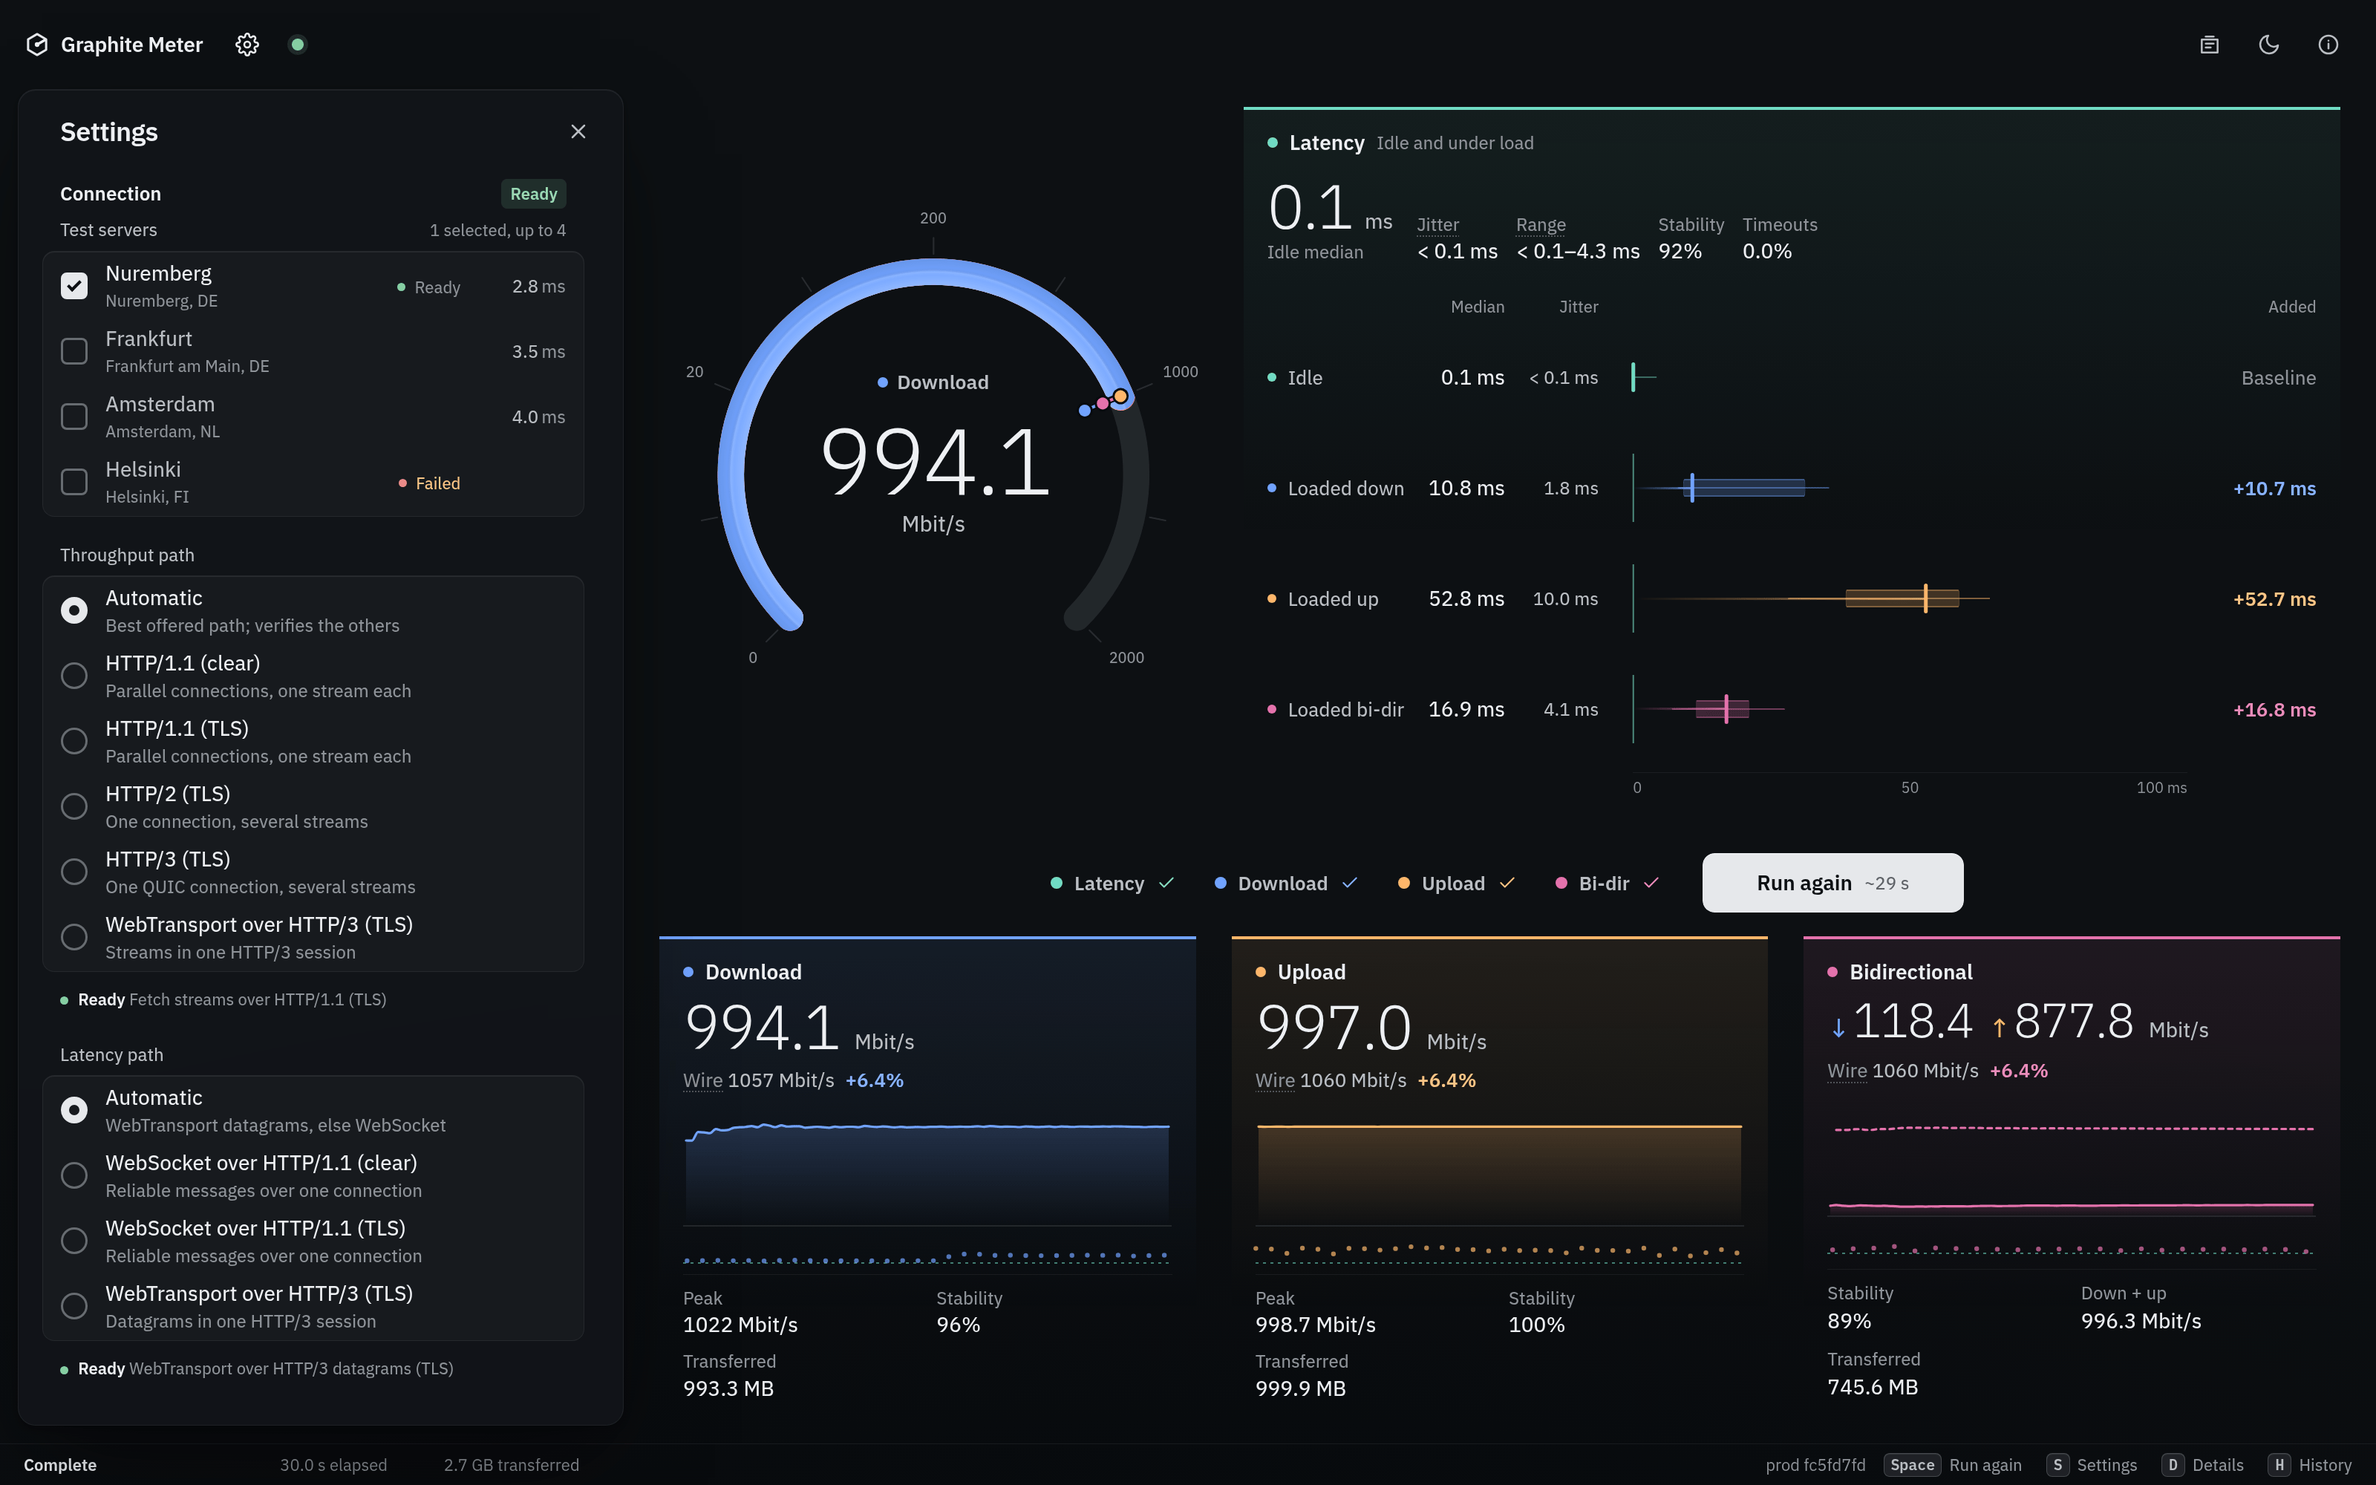
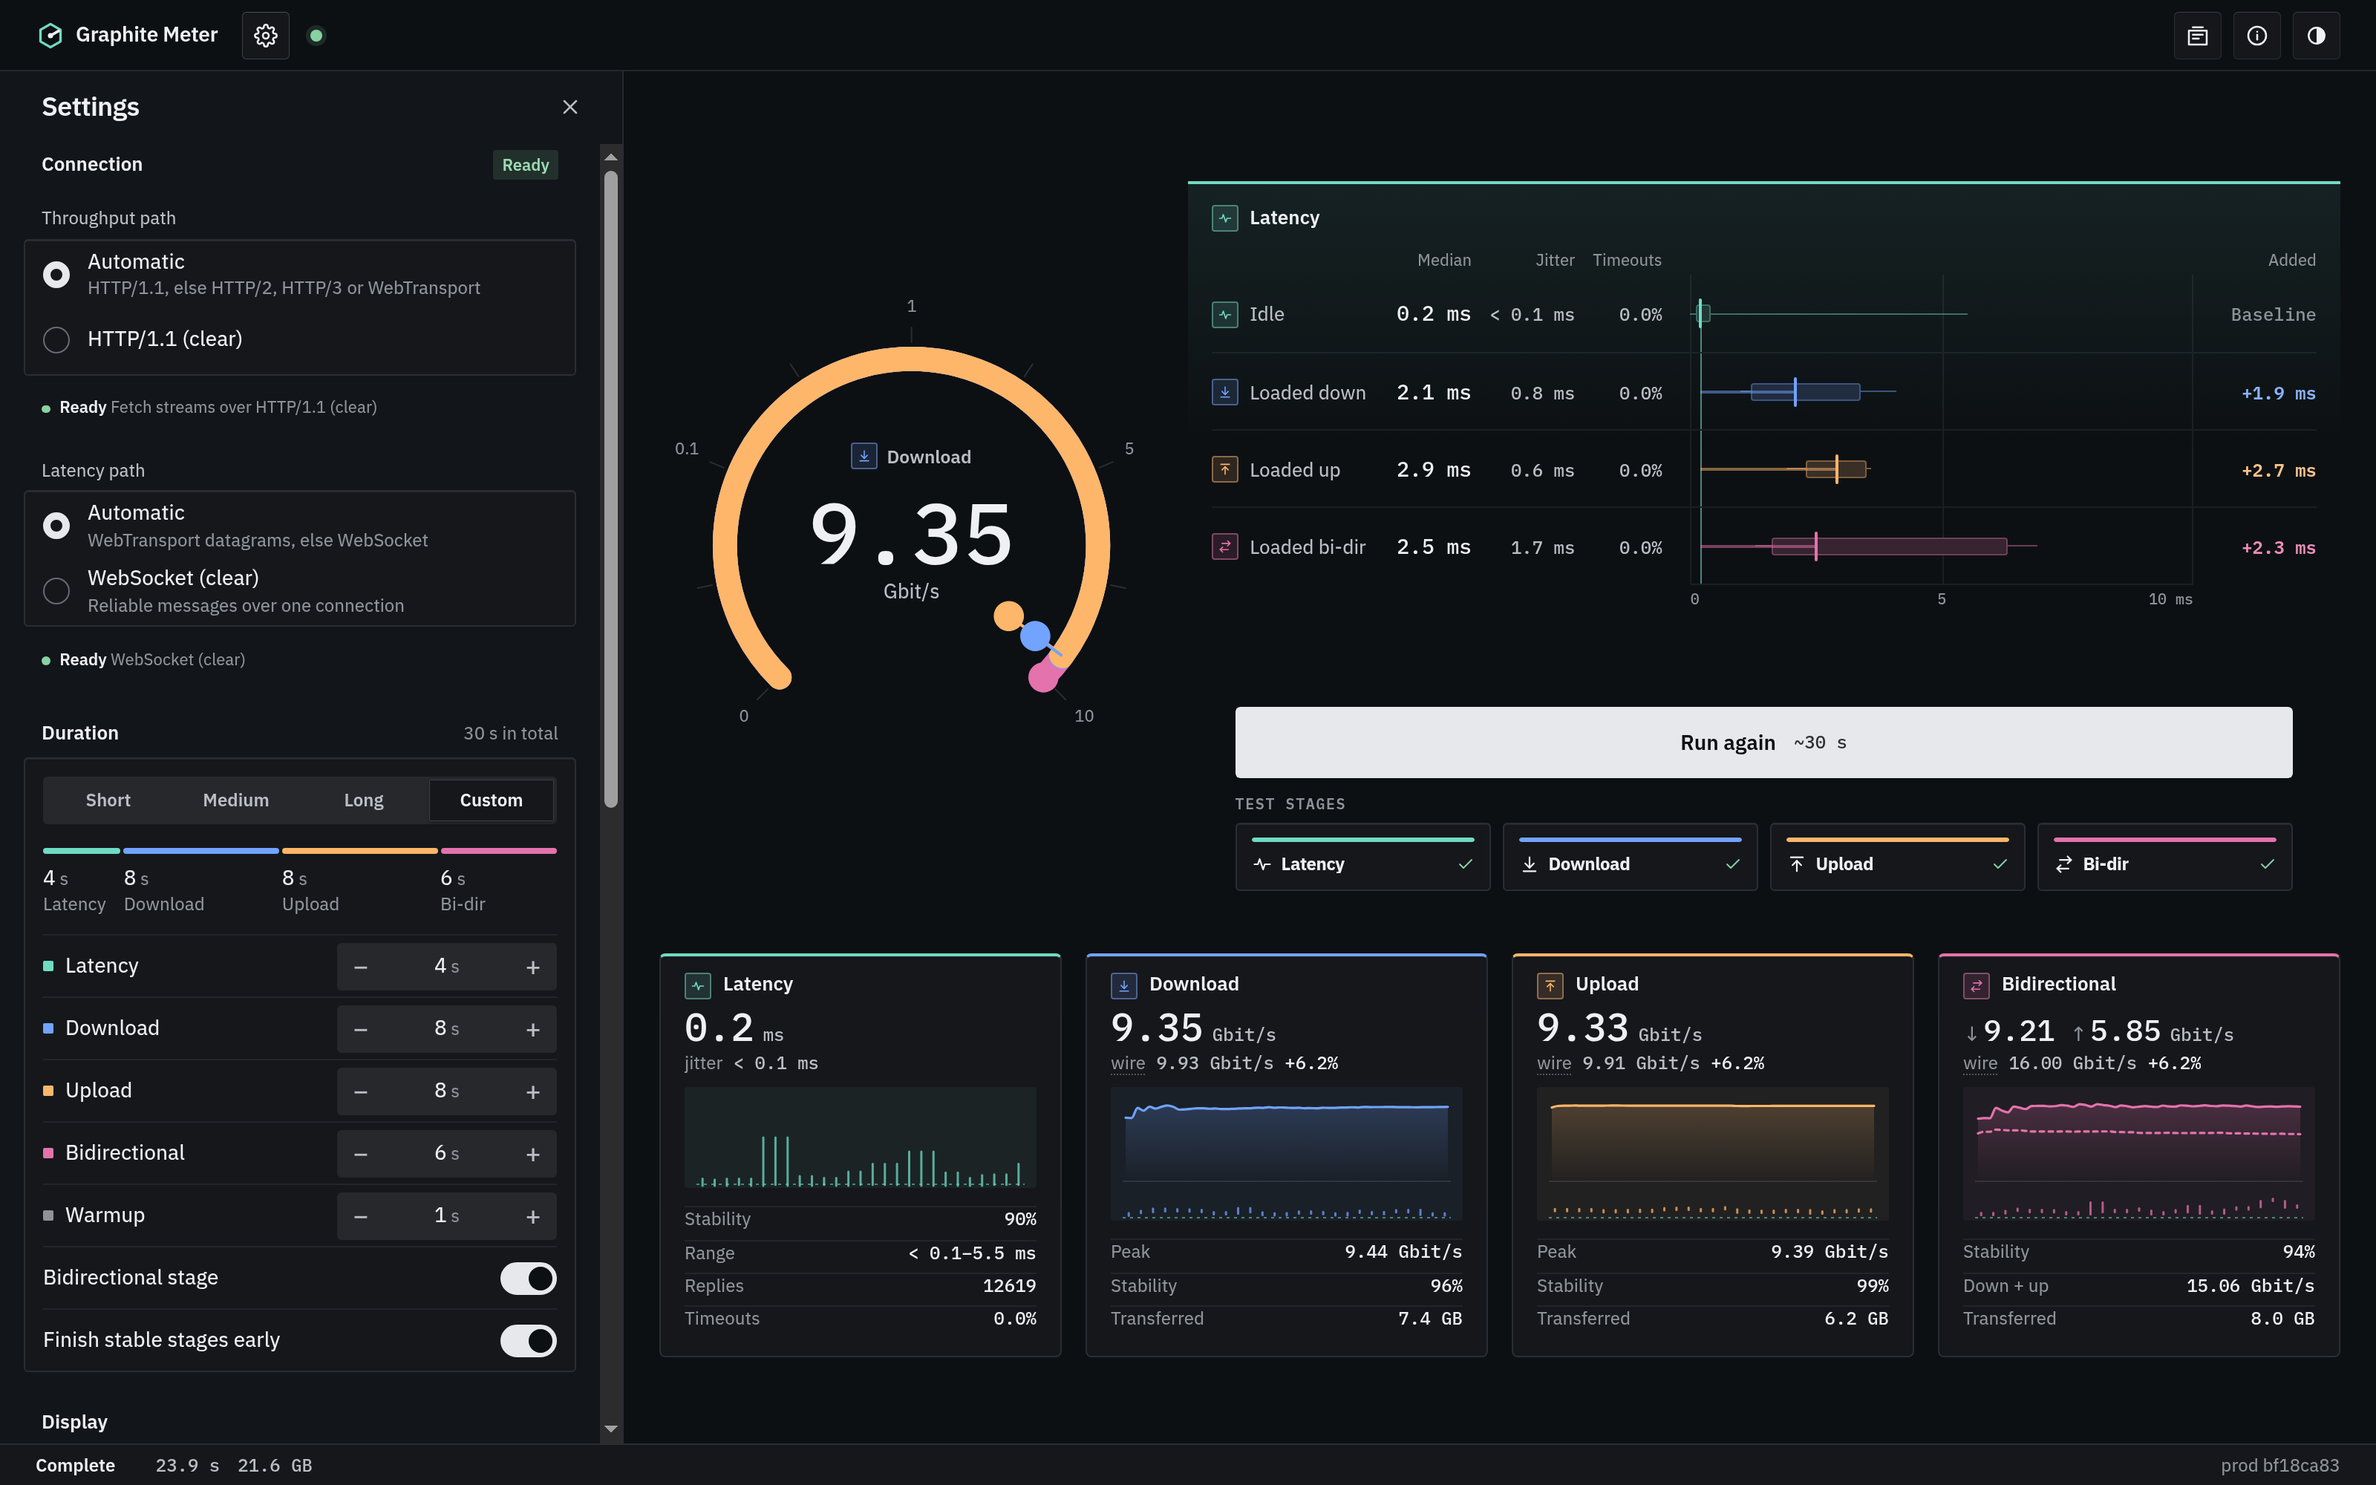
Show the redesigned console on a 10 GbE LAN in the README and gallery (#226)
The README and gallery showed the previous design with loopback figures. Every capture is retaken on the redesigned console as a real run through a link shaper: a wired 10 GbE LAN for the desktop, a Wi-Fi path for the phone, and three LAN servers for the multi-server and Partial captures. The README describes the new console and the gallery states how its captures were made.

While capturing, the terminal client's timeline drew a stage end's microsecond window as a spike of hundreds of Gbit/s that set its axis. A window shorter than half the sample cadence now stays off the live trace; results, peaks and stability are unchanged.

diff --git a/go/internal/goclient/server_measurement_test.go b/go/internal/goclient/server_measurement_test.go
@@ -282,6 +282,55 @@ func TestOnlyALateTickResumesEvidence(t *testing.T) {
 	})
 }
 
+// The stage end lands microseconds after the last tick, so its boundary spans a few reads.
+func TestAStageEndBurstStaysOffTheLiveRate(t *testing.T) {
+	t.Parallel()
+	const burst = 6 * laneBuffer
+	for _, dir := range []Direction{Down, Up} {
+		t.Run(string(dir), func(t *testing.T) {
+			t.Parallel()
+			p := &participant{prepared: PreparedServer{Server: wire.ServerEntry{ID: "a"}},
+				transport: &runner{coordinated: &participantCounters{}}}
+			plan := StagePlan{Name: StageDownload, Directions: []Direction{Down}}
+			if dir == Up {
+				plan = StagePlan{Name: StageUpload, Directions: []Direction{Up}}
+			}
+			var live []ThroughputSample
+			s := testStage(p, plan, func(e Event) { live = append(live, e.Throughput) })
+			s.ctx = t.Context()
+			boundary := func(at time.Duration, bytes uint64) measurementBoundary {
+				b := measurementBoundary{at: at}
+				if dir == Up {
+					b.up = map[string]*ReceiverSnapshot{"a": {ID: "r", Bytes: bytes, Nanos: uint64(at)}}
+				} else {
+					b.down = map[string]uint64{"a": bytes}
+				}
+				return b
+			}
+			s.c.aggregate.observe(boundary(time.Second, 0))
+			s.beginSampling(time.Now())
+			var steady []ThroughputSample
+			for i := range uint64(4) {
+				s.observe(sampledBoundary{boundary: boundary(time.Second+time.Duration(i+1)*sampleInterval,
+					(i+1)*250_000_000)})
+				steady = append(steady, ThroughputSample{BytesPerSec: 1e9, TotalBytes: (i + 1) * 250_000_000})
+			}
+			const total = 1_000_000_000 + burst
+			final := boundary(2*time.Second+50*time.Microsecond, total)
+			final.final = true
+			s.observe(sampledBoundary{boundary: final})
+			if !reflect.DeepEqual(live, steady) {
+				t.Fatalf("live rates %+v, want %+v", live, steady)
+			}
+			result := s.c.aggregate.result(dir)
+			if mean := total / (time.Second + 50*time.Microsecond).Seconds(); result.Unavailable ||
+				result.MeanBps != mean || result.TotalBytes != total {
+				t.Fatalf("the stage end left the result: %+v, want mean %v", result, mean)
+			}
+		})
+	}
+}
+
 func TestLiveRatesRestartOnlyWithTheInterval(t *testing.T) {
 	t.Parallel()
 	p := &participant{prepared: PreparedServer{Server: wire.ServerEntry{ID: "a"}}}

diff --git a/go/internal/goclient/stage.go b/go/internal/goclient/stage.go
@@ -17,6 +17,7 @@ const (
 	stallQuiet                   = 500 * time.Millisecond
 	minimumSurvivorEvidence      = 800 * time.Millisecond
 	minimumPeakWindow            = 500 * time.Millisecond
+	minimumLiveWindow            = sampleInterval / 2
 	minimumFailedLatencyOutcomes = 3
 )
 
@@ -494,7 +495,8 @@ func (s *stageRun) observe(sample sampledBoundary) (bool, error) {
 			}
 		}
 	}
-	if window != nil || restarted {
+	// A window far shorter than the cadence holds only a few reads, so its rate is left off the live trace.
+	if restarted || window != nil && window.shortest() >= minimumLiveWindow {
 		s.emitRates(window)
 	}
 	if err := s.lost(); err != nil {

diff --git a/docs/SCREENSHOTS.md b/docs/SCREENSHOTS.md
@@ -2,15 +2,17 @@
 
 [Project overview](../README.md) · [Quick deployment](DEPLOYMENT.md#fast-local-deployment) · [What the numbers mean](MEASUREMENTS.md)
 
-Every capture is a real run against local servers over loopback held to 1 Gbit/s, so the rates show that limit on
-one machine, not a network or a benchmark.
+Every capture is a real run. The servers are local, each behind a link shaper that models a wired 10 GbE LAN
+(the phone reaches its server over a slower path that models Wi-Fi), so the figures are what the meter measured
+over those links, not a benchmark of a network. Bidirectional upload is held back by the capturing machine's CPU.
 
 ## The completed test
 
-Throughput and responsiveness share the screen: the dial, the latency card with idle and loaded box plots and what
-each load added, and one card per stage whose graph keeps the ramp-up and the latency under load.
+The dial carries the run's headline and every stage's result on one ring; the latency lanes set idle and loaded
+latency side by side with what each load added; one card per stage, under its key, keeps the stage's graph with
+the latency its load caused underneath.
 
-<img src="assets/desktop.png" alt="Completed desktop test with the dial, the latency card and download, upload and bidirectional cards" width="1080">
+<img src="assets/desktop.png" alt="Completed 10 GbE test: 9.35 Gbit/s down, 9.33 Gbit/s up, 0.2 ms idle latency, the latency lanes and one card per stage" width="1080">
 
 <img src="assets/light.png" alt="The same completed test in the light theme" width="1080">
 
@@ -20,7 +22,7 @@ Settings choose servers, connection paths, stage timings and display options. De
 the paths a run used, separating what the browser observed from what reached the server. On a wide desktop both dock
 beside the meter.
 
-<img src="assets/settings.png" alt="Settings docked beside the completed test, with the server checklist and connection paths" width="1080">
+<img src="assets/settings.png" alt="Settings docked beside the completed test, with connection paths and stage timings" width="1080">
 
 <img src="assets/endpoint.png" alt="Details beside the completed test: the tested server, the paths used and the protocol evidence from browser and server" width="1080">
 
@@ -29,12 +31,12 @@ beside the meter.
 ## Several servers
 
 Up to four servers share one run and each is probed for latency. One selector over the dial shows all servers or
-one; the stage cards, the latency card and Details follow it, and the latency card names its server. A server that
+one; the stage cards, the latency lanes and Details follow it, and the lanes name their server. A server that
 leaves marks its stage **Partial**, and the card names the reason.
 
-<img src="assets/multi-server.png" alt="A three-server run with the server selector and the latency card naming its server" width="1080">
+<img src="assets/multi-server.png" alt="Three servers on one LAN sharing a run, with the server selector over the dial" width="1080">
 
-<img src="assets/partial.png" alt="A three-server run where one server stopped delivering data during download, marked Partial" width="1080">
+<img src="assets/partial.png" alt="A three-server run where one server's connection was lost during download, marked Partial with the reason on the card" width="1080">
 
 ## History on your device
 
@@ -46,7 +48,7 @@ the live meter's stage and latency cards, its server selector and the evidence s
 ## Phone
 
 <p align="center">
-<img src="assets/mobile.png" alt="Phone view of the completed test" width="320">
+<img src="assets/mobile.png" alt="Phone view of a completed test over Wi-Fi" width="320">
 <img src="assets/mobile-history.png" alt="Phone view of a saved result" width="320">
 </p>
 
@@ -56,6 +58,9 @@ The TUI runs the same measurement against the same servers and ends with the res
 
 <img src="assets/tui.png" alt="Native terminal client after a complete latency, download and upload run" width="1080">
 
-Browser captures: production build, Chrome for Testing 151, 1600 × 1000 (workspace 1920 × 1080) and 430 × 932 at
-2× density, stages latency 4 s, download and upload 8 s, bidirectional 6 s. The terminal capture is the TUI's own
-120 × 40 screen rendered as text. To measure your own network, follow [deployment and configuration](DEPLOYMENT.md).
+Browser captures: production build, Chrome 154, 1600 × 1000 (workspace 1920 × 1080) and 430 × 932 at 2× density,
+stages latency 4 s, download and upload 8 s, bidirectional 6 s, a 1 s warmup, dial maximum 10 Gbit/s on desktop.
+Links: the desktop's path carries about 9.4 Gbit/s each way with 0.1 ms of one-way delay and a millisecond or two
+of queue; the phone's carries 1.65 Gbit/s down and 1.25 Gbit/s up with 1.5 ms of delay; the three servers of the
+multi-server run each have their own path, and together they fill a 10 GbE link. The terminal capture is the TUI's own 120 × 40 screen rendered as text.
+To measure your own network, follow [deployment and configuration](DEPLOYMENT.md).

diff --git a/README.md b/README.md
@@ -2,18 +2,18 @@
 
 # Graphite Meter
 
-**Self-hosted network testing for browsers and terminals.**
+**Self-hosted network testing for fast local networks, from any browser or terminal.**
 
-Measure download, upload, and latency before and during transfers.\
+Measure download, upload, and latency before and during transfers, up to multi-gigabit links.\
 One Go server, a responsive web interface, and a native terminal client.
 
 [![CI](https://github.com/zR-JB/graphite-meter/actions/workflows/ci.yml/badge.svg)](https://github.com/zR-JB/graphite-meter/actions/workflows/ci.yml) [![Release](https://img.shields.io/github/v/release/zR-JB/graphite-meter?sort=semver)](https://github.com/zR-JB/graphite-meter/releases) [![Container](https://img.shields.io/badge/container-ghcr.io%2Fzr--jb%2Fgraphite--meter-387d91)](https://github.com/zR-JB/graphite-meter/pkgs/container/graphite-meter) [![License](https://img.shields.io/badge/license-AGPL--3.0-blue)](LICENSE)
 
 [Quick start](#quick-start) · [Measurements](#what-you-can-measure) · [Browser](#browser-client) · [Terminal](#native-terminal-client) · [Documentation](#documentation)
 
-<img src="docs/assets/hero.png" alt="Graphite Meter completed results on desktop with an overlapping phone companion" width="1080">
+<img src="docs/assets/hero.png" alt="A completed 10 GbE test on desktop, 9.35 Gbit/s down and 9.33 Gbit/s up with 0.2 ms idle latency, beside a phone measuring upload over Wi-Fi" width="1080">
 
-<sub>Real runs against local servers · <a href="docs/SCREENSHOTS.md">screenshot gallery</a></sub>
+<sub>Real runs over a shaped 10 GbE LAN and a Wi-Fi path · <a href="docs/SCREENSHOTS.md">screenshot gallery</a></sub>
 
 </div>
 
@@ -56,17 +56,20 @@ for controlled performance testing.
 
 ## Browser client
 
-Run a test from a phone or desktop without installing a client. The dial, the latency card and one card
-per stage keep transfer speed and responsiveness visible together: each stage card graphs its rate with the
-latency its load added underneath.
+Run a test from a phone or desktop without installing a client. The dial carries the live rate and, once
+the run completes, every stage's result on one ring. Beside it, the latency lanes set idle and loaded latency
+side by side as box plots with what each load added. Under the run key, one card per stage keeps its graph,
+peak, stability and the latency its load caused, so transfer speed and responsiveness stay visible together.
+The run reads as one sequence: each stage's needle rises from zero, drains back as the next begins, and the
+result replays on the dial when the run ends.
 
-- **Flexible tests:** stage switches beside Start, duration presets or custom timings, automatic or fixed
+- **Flexible tests:** a key per stage over its card, duration presets or custom timings, automatic or fixed
   stream counts, and optional early completion when a stage stabilizes.
 - **Server selection:** a **Test servers** checklist in Settings, independent sign-in for protected
   peers, and one server selector over the results (all servers, or one) that the latency card and
   Details follow. Automatic paths resolve per server.
-- **Display choices:** light and dark themes, decimal or binary bits/bytes, gauge scaling, and graph
-  inspection by pointer, keyboard or touch, with reduced-motion support.
+- **Display choices:** light and dark themes, decimal or binary bits/bytes, a fixed or automatic dial
+  maximum, and graph inspection by pointer, keyboard or touch, with reduced-motion support.
 - **Phone layout:** one vertical reading order; the bottom status bar keeps the current stage and remaining
   time visible while you scroll.
 - **Wide desktop workspace:** open Settings and Details side by side with the meter. Resize
@@ -75,7 +78,7 @@ latency its load added underneath.
 - **Local history:** optionally save up to 2,000 results on your device, grouped by day. Inspect past runs
   while the live test continues, then return to it from the toolbar. History is not a server-side archive.
 
-<img src="docs/assets/workspace.png" alt="Graphite Meter with Settings and Details open beside the completed meter on a wide desktop" width="1080">
+<img src="docs/assets/workspace.png" alt="Settings and Details docked on both sides of a completed 10 GbE test on a wide desktop" width="1080">
 
 <p align="center"><sub>Resizable desktop panels · more in the <a href="docs/SCREENSHOTS.md">gallery</a></sub></p>
 
